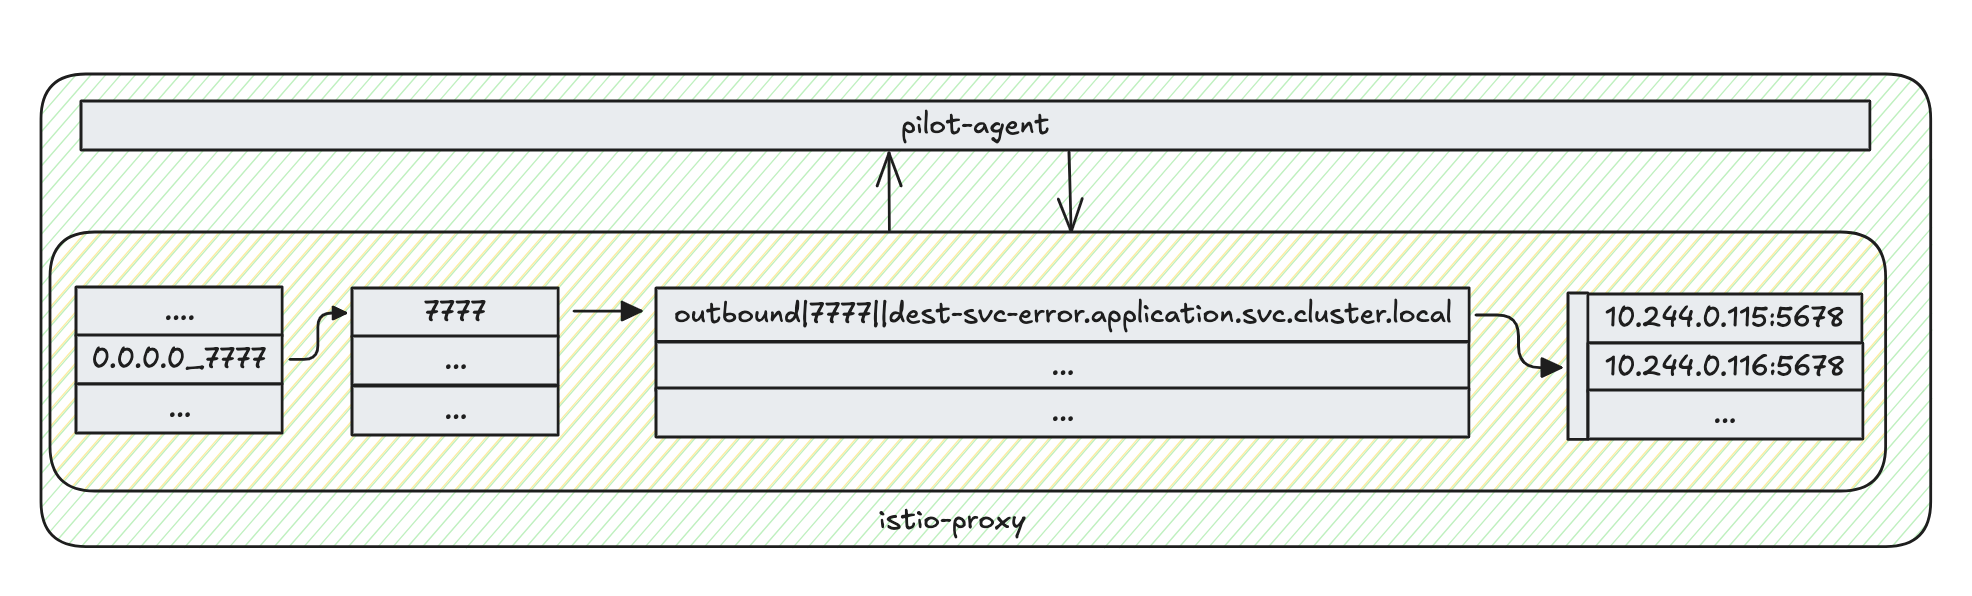
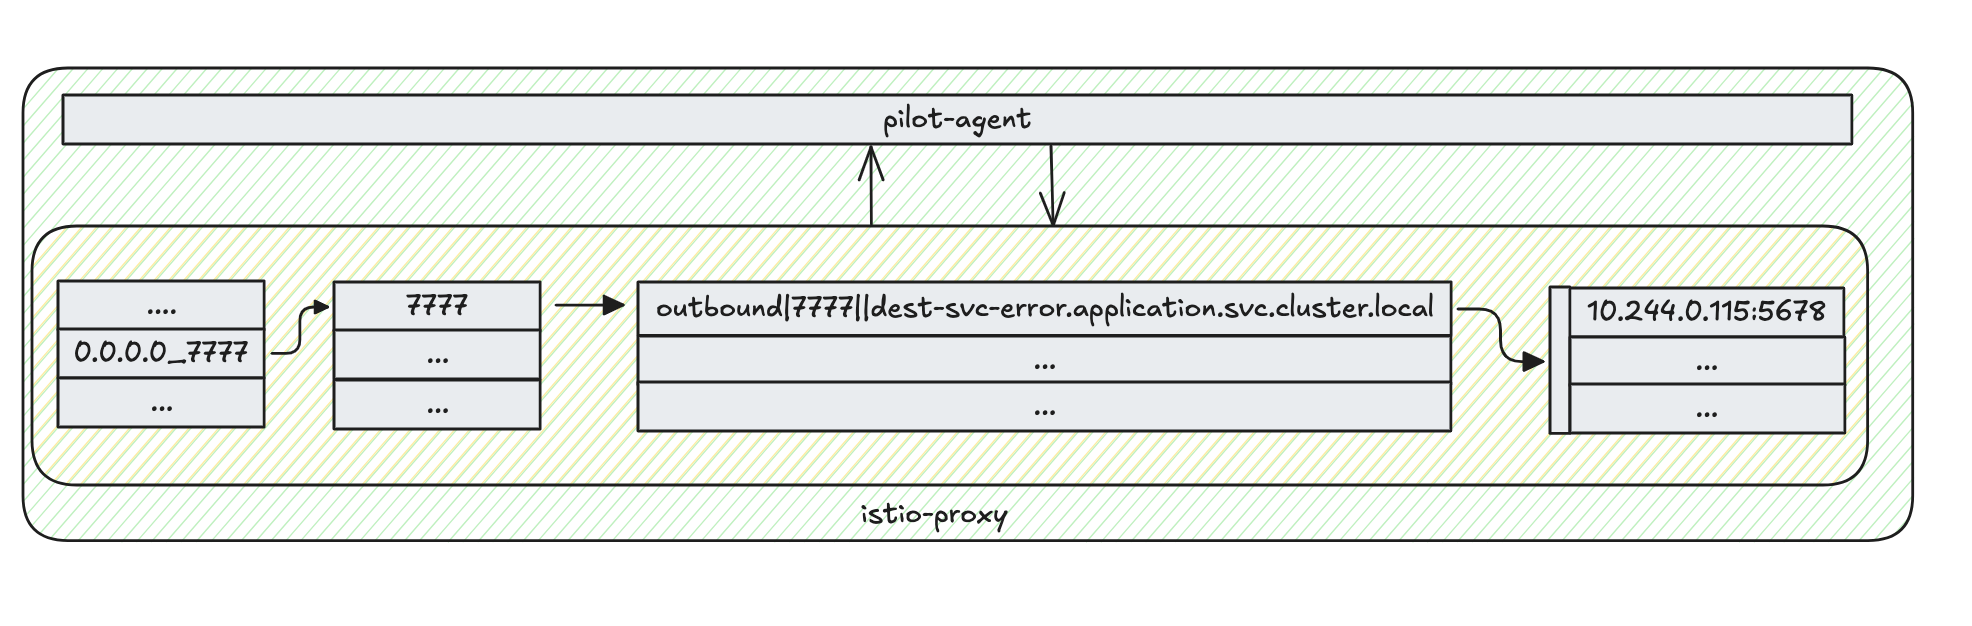
refactor: update istio-deepdive pt 4

Changed region(s): [[0.0, 0.0906, 0.9899, 0.9362]]

diff --git a/docs/_posts/2024-09-28-istio-deepdive-pt4.md b/docs/_posts/2024-09-28-istio-deepdive-pt4.md
@@ -229,7 +229,8 @@ kubectl exec -it $TARGET_POD -n application -c istio-proxy -- curl $URL | grep 7
 ```bash
 0.0.0.0_7777::0.0.0.0:7777
 ```
-You can use `istioctl proxy-config` (`istioctl pc`) to retrieve the configuration of the envoy componentes (cluster, ecds, endpoint, listener.route, etc.)
+You can also use istioctl proxy-config (istioctl pc) to check Envoy’s configuration (clusters, ecds, endpoints, listeners, routes, etc.).
+
 
 ```bash
 istioctl pc listeners -n application $TARGET_POD | grep 7777
@@ -301,9 +302,9 @@ istioctl pc endpoints $TARGET_POD -n application | grep 7777
 ### 7. Request Transmission
 Envoy sends the request to the destination microservice.
 
-
 ![Istio-proxy](/images/post-20240928/istio-proxy-eg.png)
 
+This process illustrates the detailed traffic flow between microservices within Istio.
 
 ## ℹ Summary
 Through this detailed breakdown, we saw how Istio uses its powerful service discovery mechanisms to manage traffic efficiently within a service mesh. The combination of Envoy proxies and xDS ensures that services can scale dynamically while maintaining reliable communication between microservices.
